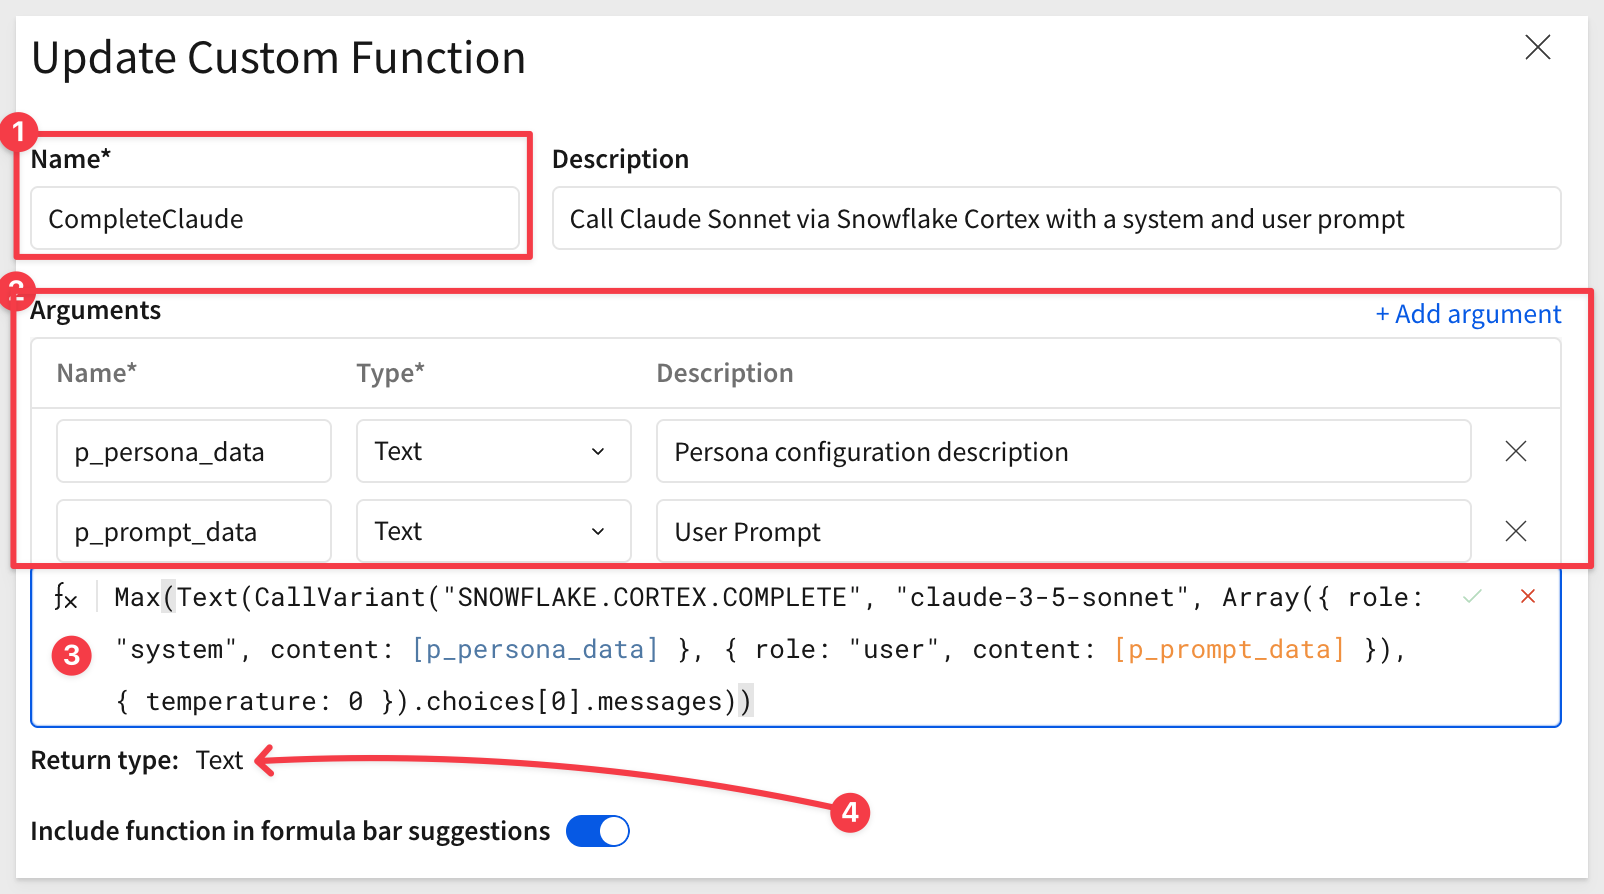
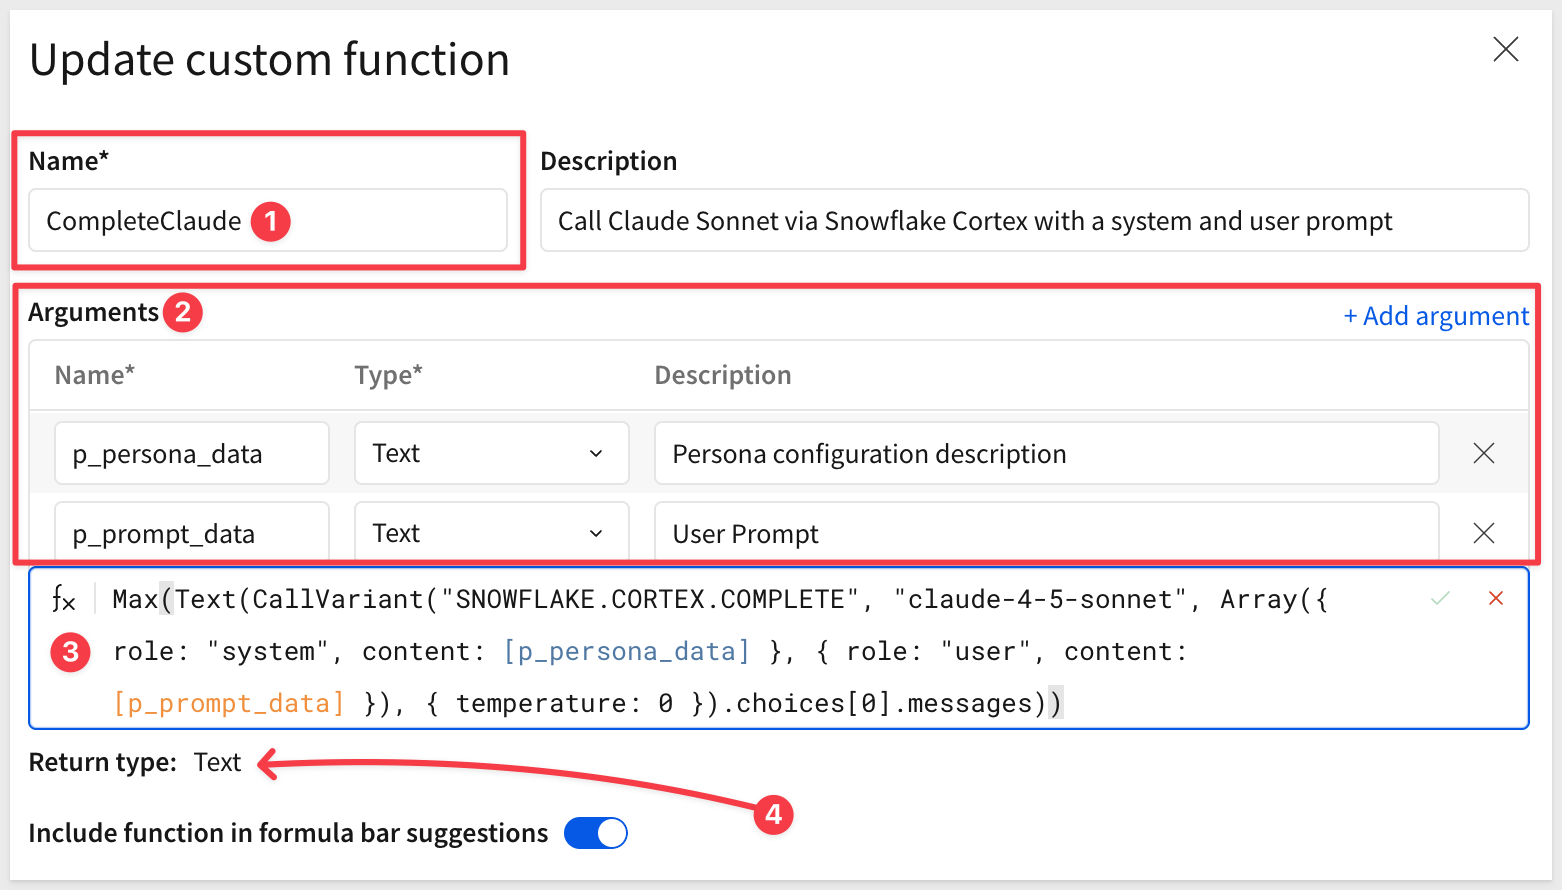
cortex-4-5

diff --git a/site/sigmaguides/src/aiapps_snowflake_ask_cortex/aiapps_snowflake_ask_cortex.md b/site/sigmaguides/src/aiapps_snowflake_ask_cortex/aiapps_snowflake_ask_cortex.md
@@ -514,7 +514,7 @@ The `Arguments` names (element ID) and data types need to match the elements we 
 
 Here is the function to use:
 ```copy-code
-Max(Text(CallVariant("SNOWFLAKE.CORTEX.COMPLETE", "claude-3-5-sonnet", Array({ role: "system", content: [p_persona_data] }, { role: "user", content: [p_prompt_data] }), { temperature: 0 }).choices[0].messages))
+Max(Text(CallVariant("SNOWFLAKE.CORTEX.COMPLETE", "claude-4-5-sonnet", Array({ role: "system", content: [p_persona_data] }, { role: "user", content: [p_prompt_data] }), { temperature: 0 }).choices[0].messages))
 ```
 
 The function will return `Text` to Sigma.
@@ -522,15 +522,15 @@ The function will return `Text` to Sigma.
 Click `Save`.
 
 ### What the formula does
-This formula sends a prompt to Claude 3.5 Sonnet using Snowflake Cortex and returns the AI’s text response as a string.
+This formula sends a prompt to Claude 4.5 Sonnet using Snowflake Cortex and returns the AI’s text response as a string.
 
 Let's review it in chunks.
 
 **CallVariant(...)**
-Invokes the Snowflake Cortex function SNOWFLAKE.CORTEX.COMPLETE to perform a chat-style completion using Claude 3.5 Sonnet.
+Invokes the Snowflake Cortex function SNOWFLAKE.CORTEX.COMPLETE to perform a chat-style completion using Claude 4.5 Sonnet.
 
 **Model Parameters:**
-- "Claude-3-5-sonnet" = the AI model being used
+- "Claude-4-5-sonnet" = the AI model being used
 
 **The Array(...) defines the conversation history:**
 
